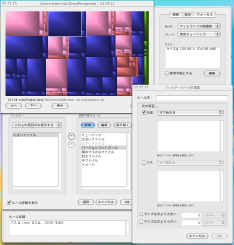
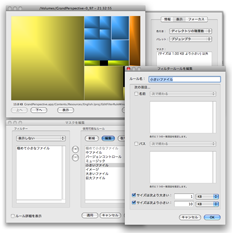
Updated Japanese screenshot for 0.97 to use plain white background.

diff --git a/GrandPerspective/trunk/web/screenshots.html b/GrandPerspective/trunk/web/screenshots.html
@@ -72,7 +72,7 @@
 <td><table cellspacing=10>
     <tr><td valign=top
             ><a href="ScreenShots/0_97-Japanese.png"
-            ><img src="ScreenShots/0_97-Japanese-Thumb.png" width=234 height=245 border=0 /></a><br>
+            ><img src="ScreenShots/0_97-Japanese-Thumb.png" width=232 height=233 border=0 /></a><br>
             Japanese localization<br>
             Display panel<br>
             Edit mask window<br>
